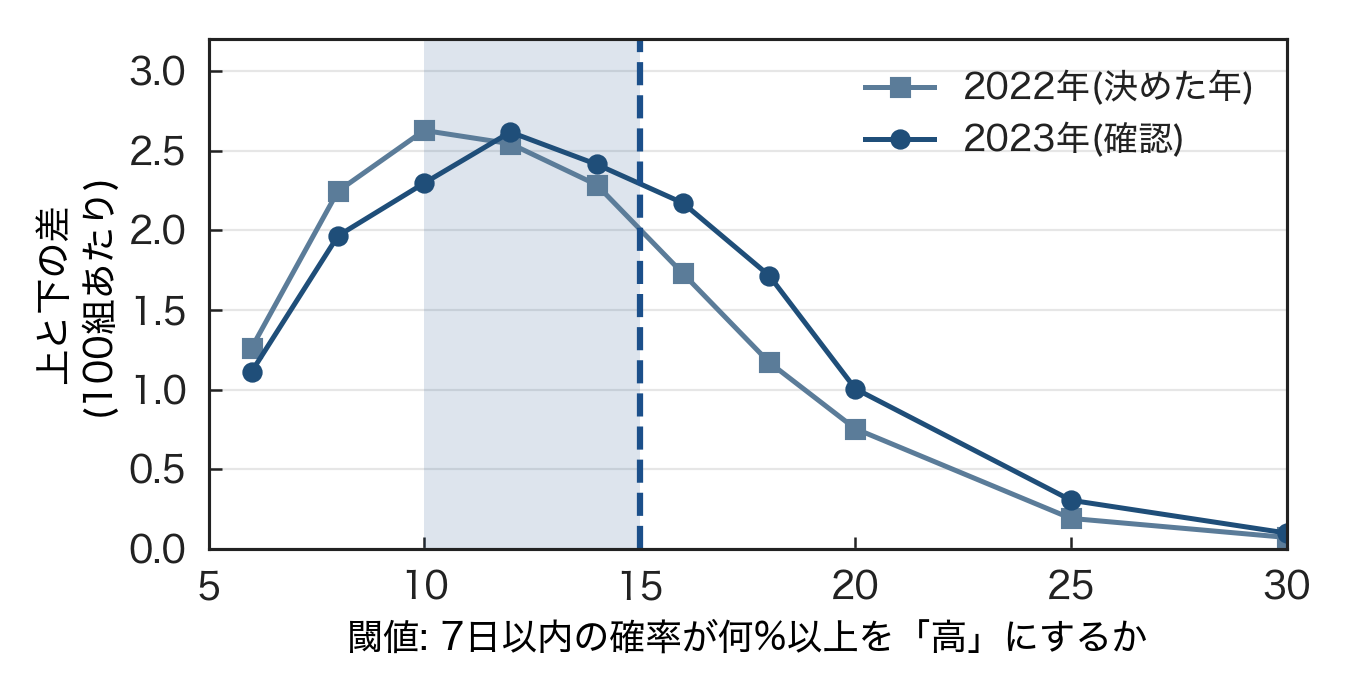
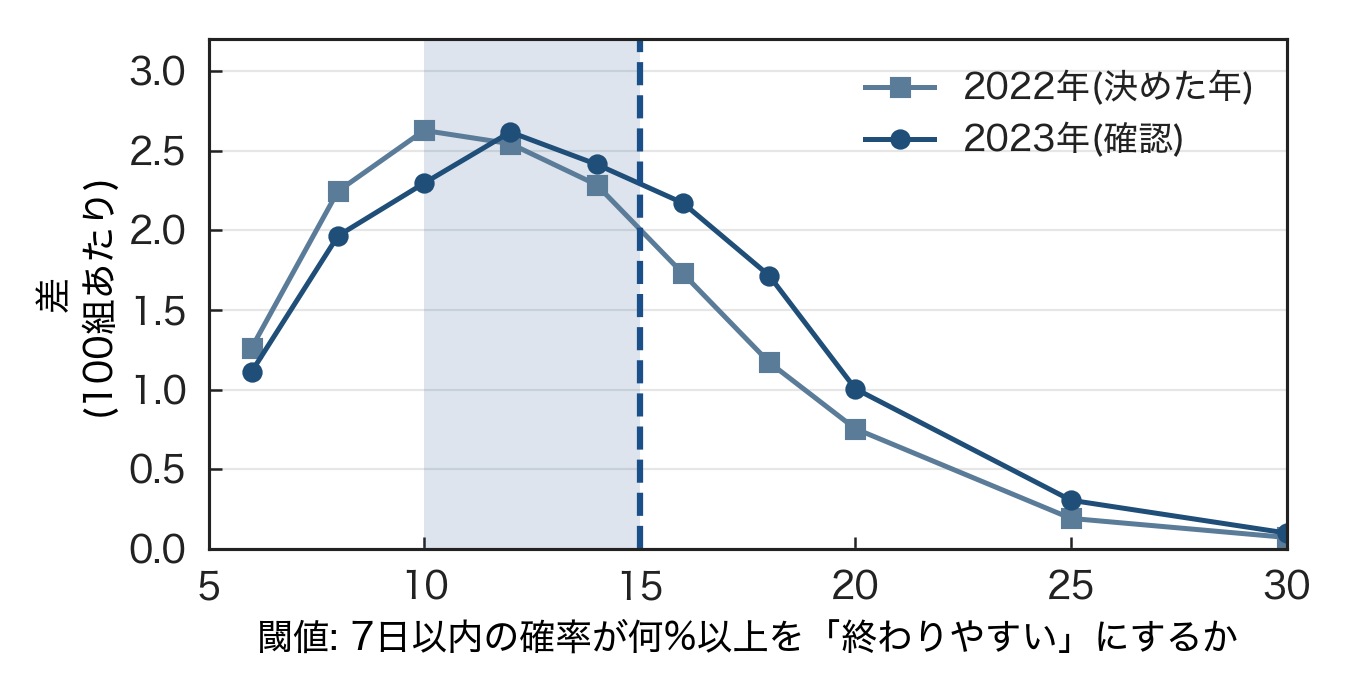
Talk figures: label groups as 終わりやすい/終わりにくい to match the app

Changed region(s): [[0.1867, 0.8826, 0.9333, 0.9435], [0.0311, 0.3043, 0.0622, 0.5478]]

diff --git a/Yamamoto/room_level/analysis/31_slide_figures.py b/Yamamoto/room_level/analysis/31_slide_figures.py
@@ -398,7 +398,7 @@ def fig_levels(c22: pd.DataFrame, c23: pd.DataFrame, c24: pd.DataFrame) -> None:
                 a.bar(xx, r, 0.78, color=COL[names[i]])
                 a.text(xx, r + 0.5, f"{r:.1f}", ha="center", fontsize=10.5 * FS)
                 ticks.append(xx)
-                labs.append(names[i])
+                labs.append({u"低": u"終わり\nにくい", u"中": u"中間", u"高": u"終わり\nやすい"}[names[i]] if TALK else names[i])
             a.text(xs.mean(), -0.38 if TALK else -0.19, nm, ha="center", transform=a.get_xaxis_transform())
             x0 = xs[-1] + 1.6
         a.set_xticks(ticks)
@@ -469,8 +469,8 @@ def fig_boundary(c22: pd.DataFrame, c23: pd.DataFrame) -> None:
     a.set_xlim(5, 30)
     a.set_ylim(0, 3.2)
     a.set_xticks([5, 10, 15, 20, 25, 30])
-    a.set_xlabel("線(7日以内の確率が何%以上を上のグループにするか)" if not TALK else "閾値: 7日以内の確率が何%以上を「高」にするか", fontsize=12 * FS if not TALK else 12.5 * FS)
-    a.set_ylabel("効き目(100組あたり)" if not TALK else "上と下の差\n(100組あたり)")
+    a.set_xlabel("線(7日以内の確率が何%以上を上のグループにするか)" if not TALK else "閾値: 7日以内の確率が何%以上を「終わりやすい」にするか", fontsize=12 * FS if not TALK else 12.5 * FS)
+    a.set_ylabel("効き目(100組あたり)" if not TALK else "差\n(100組あたり)")
     a.legend(loc="upper right")
     fig.tight_layout()
     save(fig, "31g_boundary.png")
@@ -620,8 +620,8 @@ def fig_holdout(c23: pd.DataFrame, c24: pd.DataFrame) -> None:
         lo_r, hi_r = 100 * y[~hi].mean(), 100 * y[hi].mean()
         for k, v in [("件数", len(d)), ("低 終了率(%)", lo_r), ("高 終了率(%)", hi_r), ("倍率", hi_r / lo_r), ("高の割合(%)", 100 * hi.mean())]:
             note("31f", f"{nm} {k}", v)
-        a.bar(i - 0.19, lo_r, 0.34, color=PALE if TALK else LIGHT, label="低" if i == 0 else None)
-        a.bar(i + 0.19, hi_r, 0.34, color=HI if TALK else DARK, label="高" if i == 0 else None)
+        a.bar(i - 0.19, lo_r, 0.34, color=PALE if TALK else LIGHT, label=(u"終わりにくい群" if TALK else u"低") if i == 0 else None)
+        a.bar(i + 0.19, hi_r, 0.34, color=HI if TALK else DARK, label=(u"終わりやすい群" if TALK else u"高") if i == 0 else None)
         a.text(i - 0.19, lo_r + 0.5, f"{lo_r:.1f}", ha="center", fontsize=10.5 * FS)
         a.text(i + 0.19, hi_r + 0.5, f"{hi_r:.1f}", ha="center", fontsize=10.5 * FS)
     a.set_xticks([0, 1])
@@ -662,7 +662,7 @@ def fig_checks(c22: pd.DataFrame, c23: pd.DataFrame, c24: pd.DataFrame) -> None:
         note("31k", f"{nm.replace(chr(10), '')} 高 終了率(%)", hi_r)
         note("31k", f"{nm.replace(chr(10), '')} 倍率", hi_r / lo_r)
         note("31k", f"{nm.replace(chr(10), '')} 高の割合(%)", 100 * hi.mean())
-        b.bar(i - 0.2, lo_r, 0.36, color=PALE if TALK else LIGHT, label="低" if i == 0 else None)
+        b.bar(i - 0.2, lo_r, 0.36, color=PALE if TALK else LIGHT, label=(u"終わりにくい群" if TALK else u"低") if i == 0 else None)
         b.bar(i + 0.2, hi_r, 0.36, color=HI if TALK else DARK, label="高" if i == 0 else None)
         b.text(i - 0.2, lo_r + 0.5, f"{lo_r:.1f}", ha="center", fontsize=12 * FS)
         b.text(i + 0.2, hi_r + 0.5, f"{hi_r:.1f}", ha="center", fontsize=12 * FS)
